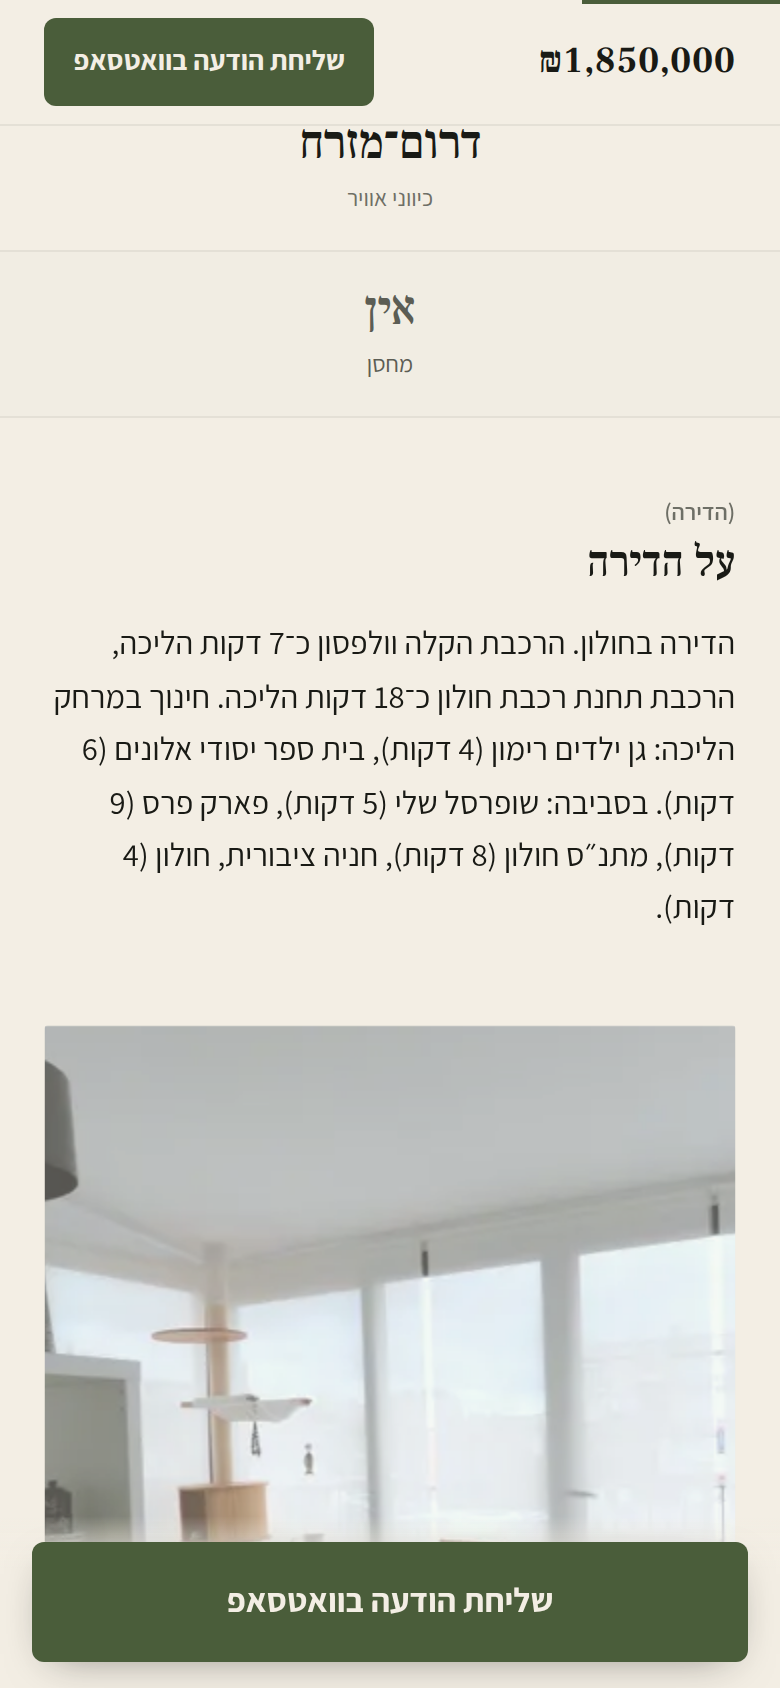
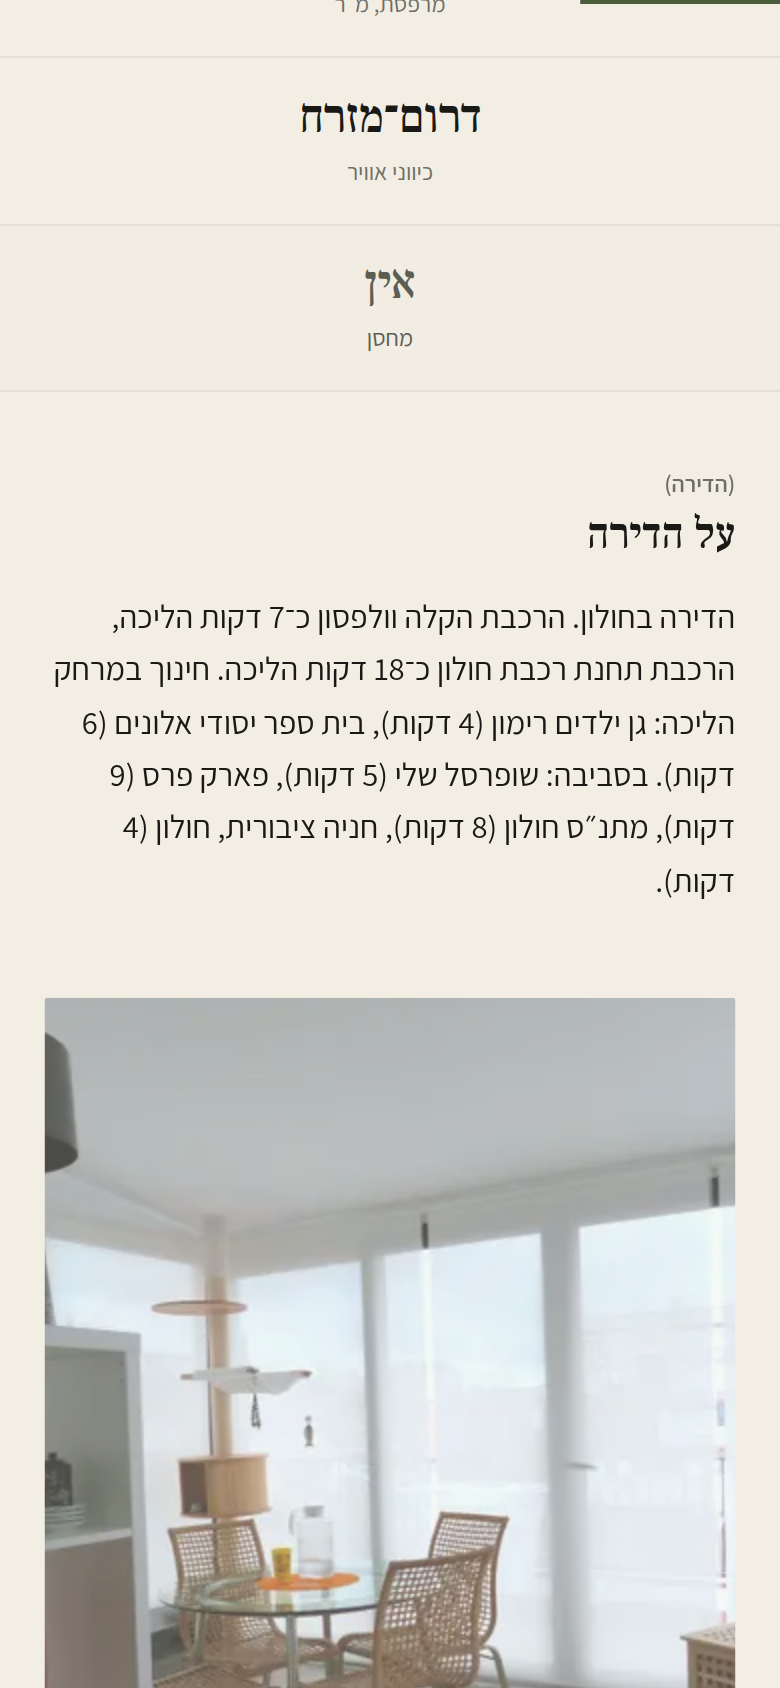
Recapture P0 section screenshots that had been overwritten.
Facts, price, enrichment, map, seller, gallery and vehicle flaws now
show the section they name. Add reduced-motion first screens at 390.

diff --git a/docs/LISTING-AUDIT.md b/docs/LISTING-AUDIT.md
@@ -22,7 +22,7 @@ This document is the gate for P1. It does not propose a rebuild.
 | Hallmark `audit` (no edits) | **Ran**, below. |
 | `scripts/verify-listing-js-budget.mjs` | **Ran.** 1043 B gz. |
 | axe-core / Lighthouse mobile | **Not run** (no Playwright, no DevTools MCP). |
-| `prefers-reduced-motion: reduce` pass | **Not captured.** Geometry is from the default motion path. |
+| `prefers-reduced-motion: reduce` first screens | **Captured** at 390 for A7K2M, V3M9Q, walkFirst. Title is static (M1 reduced path). Geometry in `fold.json` is still the default motion path. |
 
 Israeli traffic is iPhone-heavy. Chromium-only screenshots **cannot** certify Safari flex, `animation-timeline: view(inline)`, or RTL scroll-snap. Those wait for a machine with Playwright MCP.
 
@@ -124,7 +124,7 @@ Severity: **critical** ships broken or illegal; **major** misses the brief or re
 
 - Serif numerals, `--absent` solid colour (not opacity), `value: null` omitted. `אין` / מחסן visible in `A7K2M-390-description.png`. This part of §7 already ships.
 - Editorial template sets `.facts { grid-template-columns: 1fr }`, so the Holon demo is a **long centred column**, not a 3-up scan. Israeli scan order (rooms → m² → floor → lift → parking → mamad) becomes a scroll. **Major.**
-- Floor cell `3 / 5` paints as **`5 / 3`**. DESIGN-CONTRACT §7 case 2. Markup is `<bdi>3</bdi> / <bdi>5</bdi>` inside an RTL cell; two separate `bdi` runs reorder. **Critical.** Seen on the in-flow facts screenshot before later recaptures.
+- Floor cell `3 / 5` paints as **`5 / 3`**. DESIGN-CONTRACT §7 case 2. Markup is `<bdi>3</bdi> / <bdi>5</bdi>` inside an RTL cell; two separate `bdi` runs reorder. **Critical.** `A7K2M-390-facts.png`.
 - Agency hides `.fact-src` (`display: none`), so `מאומת` citations vanish on that template. An unbacked badge is forbidden; **hiding a backed one** is the other failure. **Major.**
 - M3 counts up `data-count` via JS. Mid-animation screenshots showed `53` / `56` m² instead of `95`. HTML still holds the final value; visual lie lasts 700 ms. Price is not counted (correct). Reduced-motion / no-JS not captured this pass. **Major** until those two paths are screenshotted in P4.
 - No monthly-cost line under the grid. **Major** (P4).
@@ -154,7 +154,7 @@ Severity: **critical** ships broken or illegal; **major** misses the brief or re
 
 - Property only, static image / area map, omitted without a street. Vehicle has city only — correct.
 - Location precision (`exact` / `street` / `area`) is **not in the listing render path**. **Major** (P8).
-- Section screenshots of the map were unreliable under the sticky bar; do not trust `A7K2M-390-map.png` filenames from the second capture pass. Geometry in `fold.json` still lists a `section.map` in the page.
+- Static pin card with walk-minute chips (4 / 7 / 5) and a nearby list. `(מיקום)` label present. No live tiles. `A7K2M-390-map.png`. Location precision is still not a data field.
 
 ### Agent card
 
@@ -361,14 +361,26 @@ First screens (the contract shots):
 - `V3M9Q-{390,375,360}-first.png` — vehicle; price in view; two WhatsApp buttons
 - `{agency,editorial,dark,brochure,linen,studio,walk,walkFirst}-{390,375,360}-first.png`
 
-Section / supporting (Chromium, 390):
+Section shots (Chromium, 390×844, sticky compact-bar forced `static` and dock hidden so the section is not covered):
 
-- `walk-390-walk.png` — labelled photo tour, RTL thumbs
-- `A7K2M-390-description.png` — `(הדירה)`, `אין` מחסן, generated area copy
-- `A7K2M-390-{hero,agent-bar,compact-bar,cta,footer}.png`
-- `V3M9Q-390-{hero,gallery,flaws,description,agent-bar}.png`
+- `A7K2M-390-price.png` — in-flow compact bar sitting on top of the dominant PriceBar
+- `A7K2M-390-facts.png` — 1-col editorial grid; floor **`5 / 3`**; `אין` מחסן in `--absent`
+- `A7K2M-390-enrich.png` — dark block, minutes as the row anchor
+- `A7K2M-390-map.png` — static pin card, `(מיקום)`
+- `A7K2M-390-seller.png` — empty avatar, no `tel:`, ODbL in the footer
+- `A7K2M-390-gallery.png` — asymmetric 1+2 grid
+- `V3M9Q-390-facts.png` — `מאומת` citations; 1-col
+- `V3M9Q-390-flaws.png` — olive-dot list
+- `V3M9Q-390-enrich.png` — טסט / בעלות, source line
+- `walk-390-walk.png` — filmstrip on the inline-start (right)
 
-`*-full.png` files are present but roughly viewport-tall; do not treat them as full-page captures. A later recapture of enrich/map/seller scrolled incorrectly and some of those filenames now repeat the first screen — trust the first-pass description shots and `fold.json` over those names.
+Reduced motion (390, first screen only):
+
+- `A7K2M-390-reduced-first.png`
+- `V3M9Q-390-reduced-first.png`
+- `walkFirst-390-reduced-first.png`
+
+`*-full.png` files are roughly viewport-tall; do not treat them as full-page captures. Fold geometry remains in `fold.json`.
 
 ---
 
